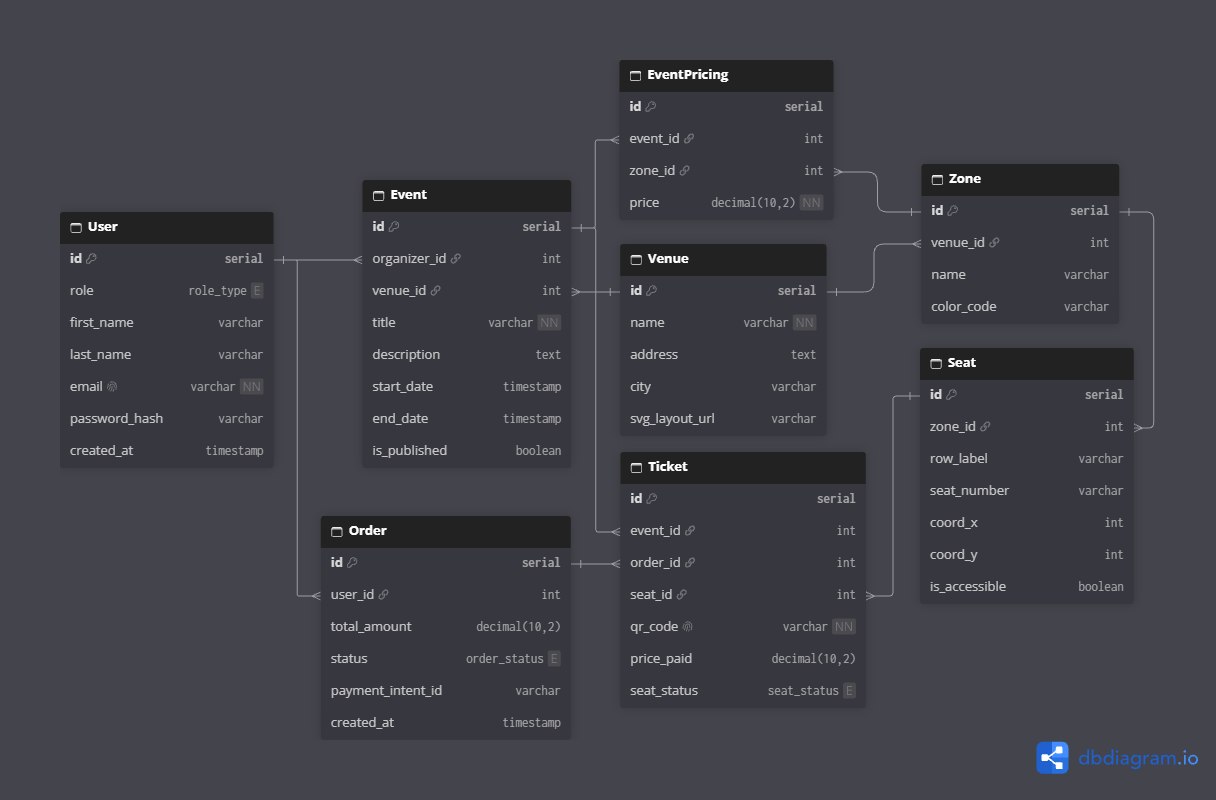
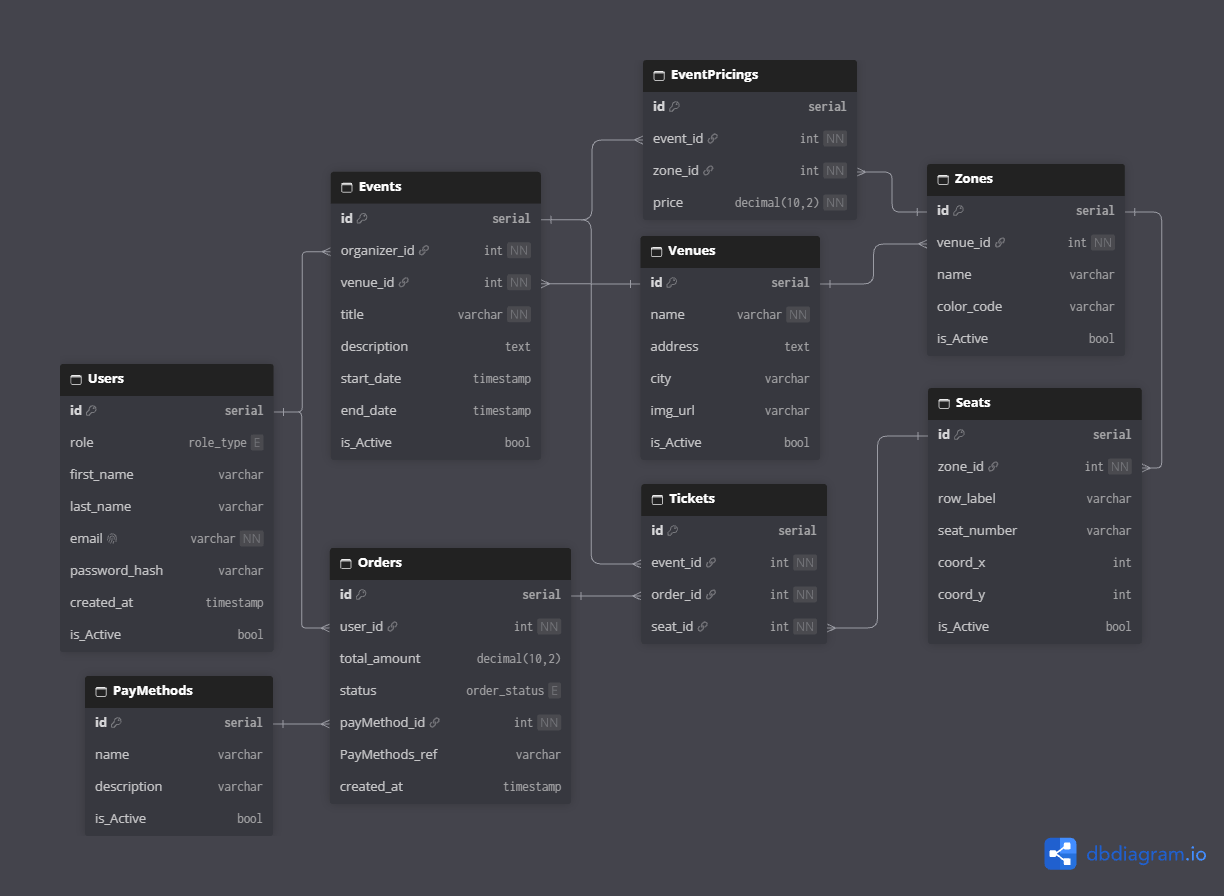
Backend Incluido (compre dlc para que funcione)

diff --git a/client/src/Features/Ticketing/components/EventoCard.jsx b/client/src/Features/Ticketing/components/EventoCard.jsx
@@ -35,7 +35,7 @@ function EventoCard({Data, isDisabled=false}) {
 
         <div className="flex items-center gap-1.5 text-sm text-gray-600 mb-3">
           <MapPin className="h-4 w-4 text-orange-500 shrink-0" />
-          <span className="truncate">{Data.venue?.name} • {Data.venue?.location}</span>
+          <span className="truncate">{Data.venue?.name} • {Data.venue?.address}</span>
         </div>
 
         <div className="flex items-center gap-4 text-xs text-gray-600 mb-3">
@@ -45,7 +45,8 @@ function EventoCard({Data, isDisabled=false}) {
           </div>
           <div className="flex items-center gap-1.5">
             <Clock className="h-3.5 w-3.5 text-gray-400" />
-            <span>{Data.start_date ? Data.start_date.slice(11,16) : 'N/A'}</span>
+            <span>{Data.start_date ? Data.start_date.slice(11,16) : 'N/A'}</span>-
+            <span>{Data.end_date ? Data.end_date.slice(11,16) : 'N/A'}</span>
           </div>
         </div>
 

diff --git a/server/main.py b/server/main.py
@@ -1,0 +1,26 @@
+from fastapi import FastAPI
+from fastapi.middleware.cors import CORSMiddleware
+
+app = FastAPI(title="FastAPI + React API")
+
+# Allow requests from React Vite dev server
+origins = ["http://localhost:5173","http://127.0.0.1:5173"]
+
+app.add_middleware(
+    CORSMiddleware,
+    allow_origins=origins,
+    allow_credentials=True,
+    allow_methods=["*"],
+    allow_headers=["*"],
+)
+
+@app.get("/api/hello")
+def read_root():
+    return {"message": "Hello from FastAPI backend!"}
+
+@app.get("/api/items")
+def read_items():
+    return [
+        {"id": 1, "name": "Item One", "status": "Active"},
+        {"id": 2, "name": "Item Two", "status": "Pending"},
+    ]
